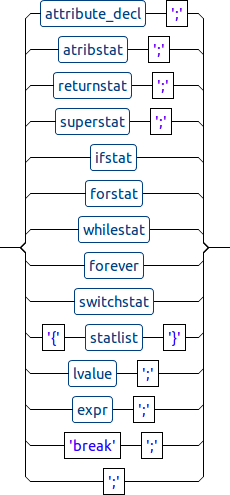
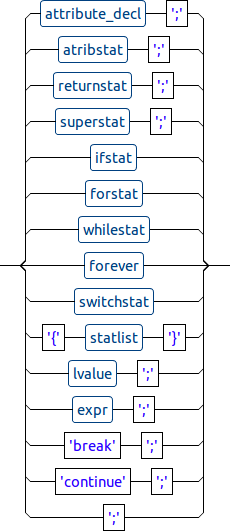
syntax graphs

diff --git a/syntax_graphs/Lyra.g4.html b/syntax_graphs/Lyra.g4.html
@@ -786,7 +786,7 @@ footer {
   <div class="ebnf">
   <h4>Text notation:</h4>
   <div>
-    <span class="rule">statement</span> :  <span class="operator">(</span> <a href="#attribute_decl" class="rule">attribute_decl</a> <span class="literal">';'</span> <span class="operator">|</span> <a href="#atribstat" class="rule">atribstat</a> <span class="literal">';'</span> <span class="operator">|</span> <a href="#returnstat" class="rule">returnstat</a> <span class="literal">';'</span> <span class="operator">|</span> <a href="#superstat" class="rule">superstat</a> <span class="literal">';'</span> <span class="operator">|</span> <a href="#ifstat" class="rule">ifstat</a> <span class="operator">|</span> <a href="#forstat" class="rule">forstat</a> <span class="operator">|</span> <a href="#whilestat" class="rule">whilestat</a> <span class="operator">|</span> <a href="#forever" class="rule">forever</a> <span class="operator">|</span> <a href="#switchstat" class="rule">switchstat</a> <span class="operator">|</span> <span class="literal">'{'</span> <a href="#statlist" class="rule">statlist</a> <span class="literal">'}'</span> <span class="operator">|</span> <a href="#lvalue" class="rule">lvalue</a> <span class="literal">';'</span> <span class="operator">|</span> <a href="#expr" class="rule">expr</a> <span class="literal">';'</span> <span class="operator">|</span> <span class="literal">'break'</span> <span class="literal">';'</span> <span class="operator">|</span> <span class="literal">';'</span><span class="operator">)</span> ;
+    <span class="rule">statement</span> :  <span class="operator">(</span> <a href="#attribute_decl" class="rule">attribute_decl</a> <span class="literal">';'</span> <span class="operator">|</span> <a href="#atribstat" class="rule">atribstat</a> <span class="literal">';'</span> <span class="operator">|</span> <a href="#returnstat" class="rule">returnstat</a> <span class="literal">';'</span> <span class="operator">|</span> <a href="#superstat" class="rule">superstat</a> <span class="literal">';'</span> <span class="operator">|</span> <a href="#ifstat" class="rule">ifstat</a> <span class="operator">|</span> <a href="#forstat" class="rule">forstat</a> <span class="operator">|</span> <a href="#whilestat" class="rule">whilestat</a> <span class="operator">|</span> <a href="#forever" class="rule">forever</a> <span class="operator">|</span> <a href="#switchstat" class="rule">switchstat</a> <span class="operator">|</span> <span class="literal">'{'</span> <a href="#statlist" class="rule">statlist</a> <span class="literal">'}'</span> <span class="operator">|</span> <a href="#lvalue" class="rule">lvalue</a> <span class="literal">';'</span> <span class="operator">|</span> <a href="#expr" class="rule">expr</a> <span class="literal">';'</span> <span class="operator">|</span> <span class="literal">'break'</span> <span class="literal">';'</span> <span class="operator">|</span> <span class="literal">'continue'</span> <span class="literal">';'</span> <span class="operator">|</span> <span class="literal">';'</span><span class="operator">)</span> ;
   </div>
   </div>
   <div class="railroad">
@@ -854,7 +854,7 @@ footer {
   <div class="ebnf">
   <h4>Text notation:</h4>
   <div>
-    <span class="rule">ifstat</span> :  <span class="literal">'if'</span> <a href="#expr" class="rule">expr</a> <a href="#statlist" class="rule">statlist</a> <span class="operator">(</span> <span class="literal">'else'</span> <a href="#statlist" class="rule">statlist</a><span class="operator">)</span><span class="operator">?</span> ;
+    <span class="rule">ifstat</span> :  <span class="literal">'if'</span> <a href="#expr" class="rule">expr</a> <span class="literal">'{'</span> <a href="#statlist" class="rule">statlist</a> <span class="literal">'}'</span> <span class="operator">(</span> <span class="literal">'else'</span> <span class="literal">'{'</span> <a href="#statlist" class="rule">statlist</a> <span class="literal">'}'</span><span class="operator">)</span><span class="operator">?</span> ;
   </div>
   </div>
   <div class="railroad">
@@ -871,7 +871,7 @@ footer {
   <div class="ebnf">
   <h4>Text notation:</h4>
   <div>
-    <span class="rule">forstat</span> :  <span class="literal">'for'</span> <a href="#attribute_decl" class="rule">attribute_decl</a><span class="operator">?</span> <span class="literal">';'</span> <a href="#expr" class="rule">expr</a> <span class="literal">';'</span> <a href="#expr" class="rule">expr</a><span class="operator">?</span> <a href="#statlist" class="rule">statlist</a> ;
+    <span class="rule">forstat</span> :  <span class="literal">'for'</span> <a href="#attribute_decl" class="rule">attribute_decl</a><span class="operator">?</span> <span class="literal">';'</span> <a href="#expr" class="rule">expr</a> <span class="literal">';'</span> <a href="#expr" class="rule">expr</a><span class="operator">?</span> <span class="literal">'{'</span> <a href="#statlist" class="rule">statlist</a> <span class="literal">'}'</span> ;
   </div>
   </div>
   <div class="railroad">
@@ -888,7 +888,7 @@ footer {
   <div class="ebnf">
   <h4>Text notation:</h4>
   <div>
-    <span class="rule">whilestat</span> :  <span class="literal">'while'</span> <a href="#expr" class="rule">expr</a> <a href="#statlist" class="rule">statlist</a> ;
+    <span class="rule">whilestat</span> :  <span class="literal">'while'</span> <a href="#expr" class="rule">expr</a> <span class="literal">'{'</span> <a href="#statlist" class="rule">statlist</a> <span class="literal">'}'</span> ;
   </div>
   </div>
   <div class="railroad">
@@ -905,7 +905,7 @@ footer {
   <div class="ebnf">
   <h4>Text notation:</h4>
   <div>
-    <span class="rule">forever</span> :  <span class="literal">'forever'</span> <a href="#statlist" class="rule">statlist</a> ;
+    <span class="rule">forever</span> :  <span class="literal">'forever'</span> <span class="literal">'{'</span> <a href="#statlist" class="rule">statlist</a> <span class="literal">'}'</span> ;
   </div>
   </div>
   <div class="railroad">
